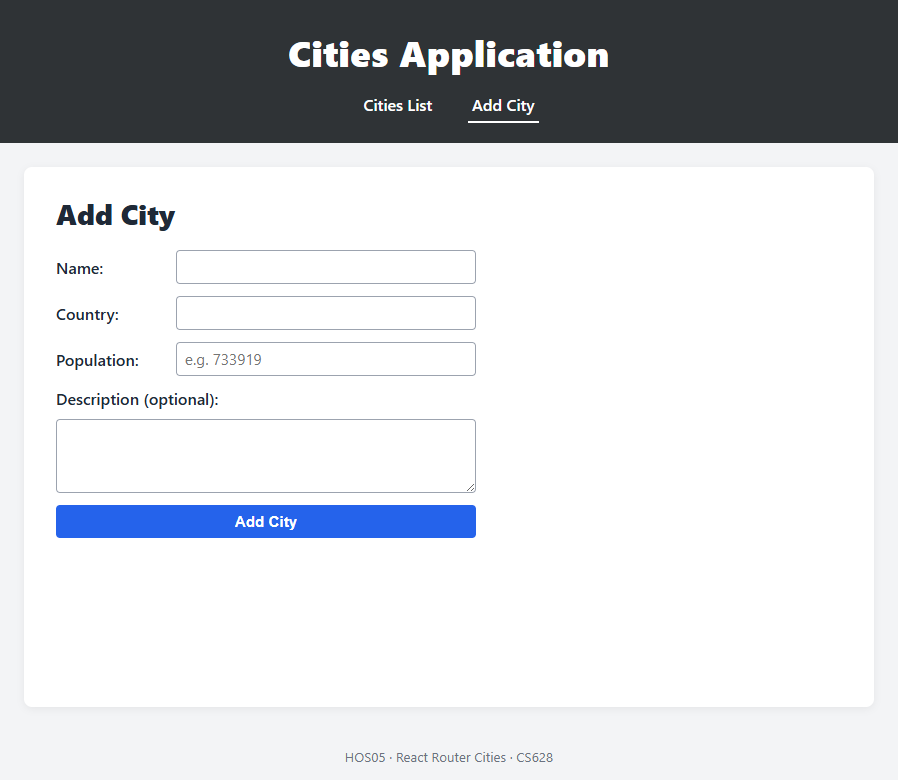
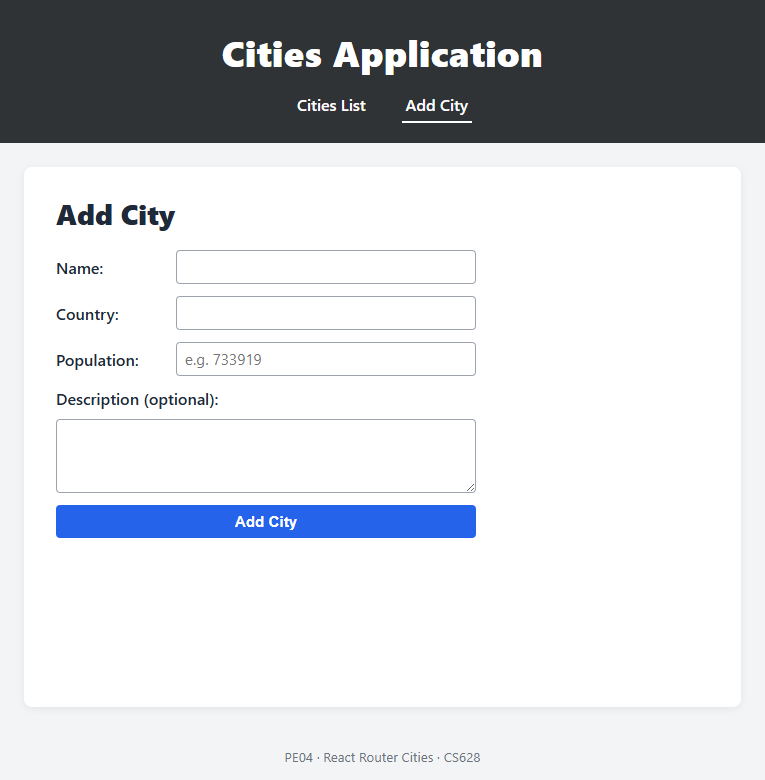
PE04: rename HOS05->PE04 in footer/README, refresh all screenshots

diff --git a/src/components/Layout.tsx b/src/components/Layout.tsx
@@ -5,7 +5,7 @@ import { NavLink, Outlet } from 'react-router-dom';
  *
  * Renders the dark application header with navigation links followed by an
  * `<Outlet />` so child routes can plug in their own content while keeping a
- * consistent layout — exactly as required by HOS05 (the City Details screen
+ * consistent layout — exactly as required by PE04 (the City Details screen
  * must replace a section *within* the Cities List page, not the whole page).
  */
 export default function Layout(): React.JSX.Element {
@@ -30,7 +30,7 @@ export default function Layout(): React.JSX.Element {
       </main>
 
       <footer className="app-footer">
-        <small>HOS05 &middot; React Router Cities &middot; CS628</small>
+        <small>PE04 &middot; React Router Cities &middot; CS628</small>
       </footer>
     </div>
   );

diff --git a/README.md b/README.md
@@ -1,7 +1,7 @@
-# Cities Application — HOS05
+# Cities Application — PE04
 
 A production-quality React + TypeScript SPA built with **Vite** and **React Router v7**.  
-Satisfies every requirement of the CS628 HOS05 hands-on assignment.
+Satisfies every requirement of the CS628 PE04 hands-on assignment.
 
 | Requirement | How it is met |
 |---|---|
